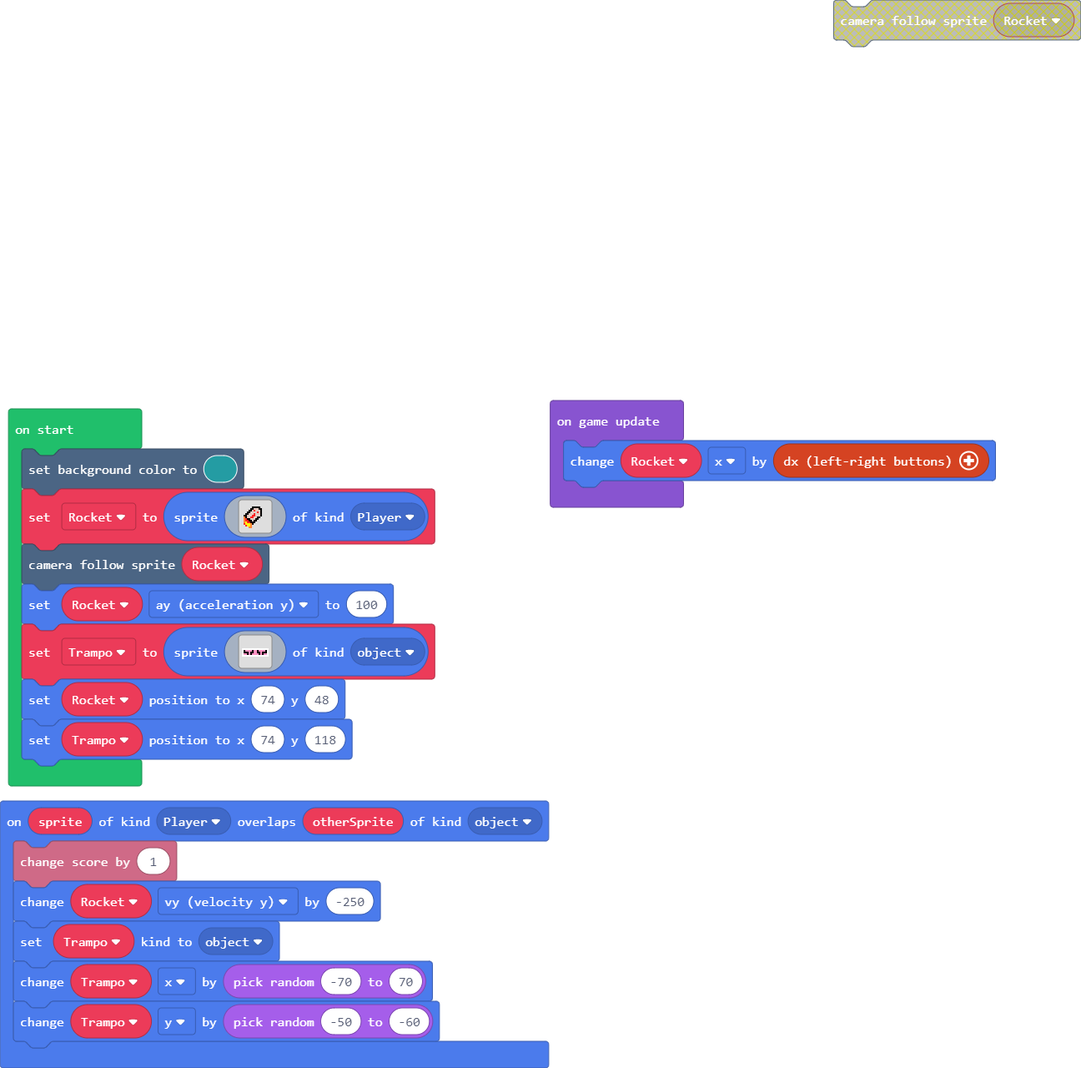
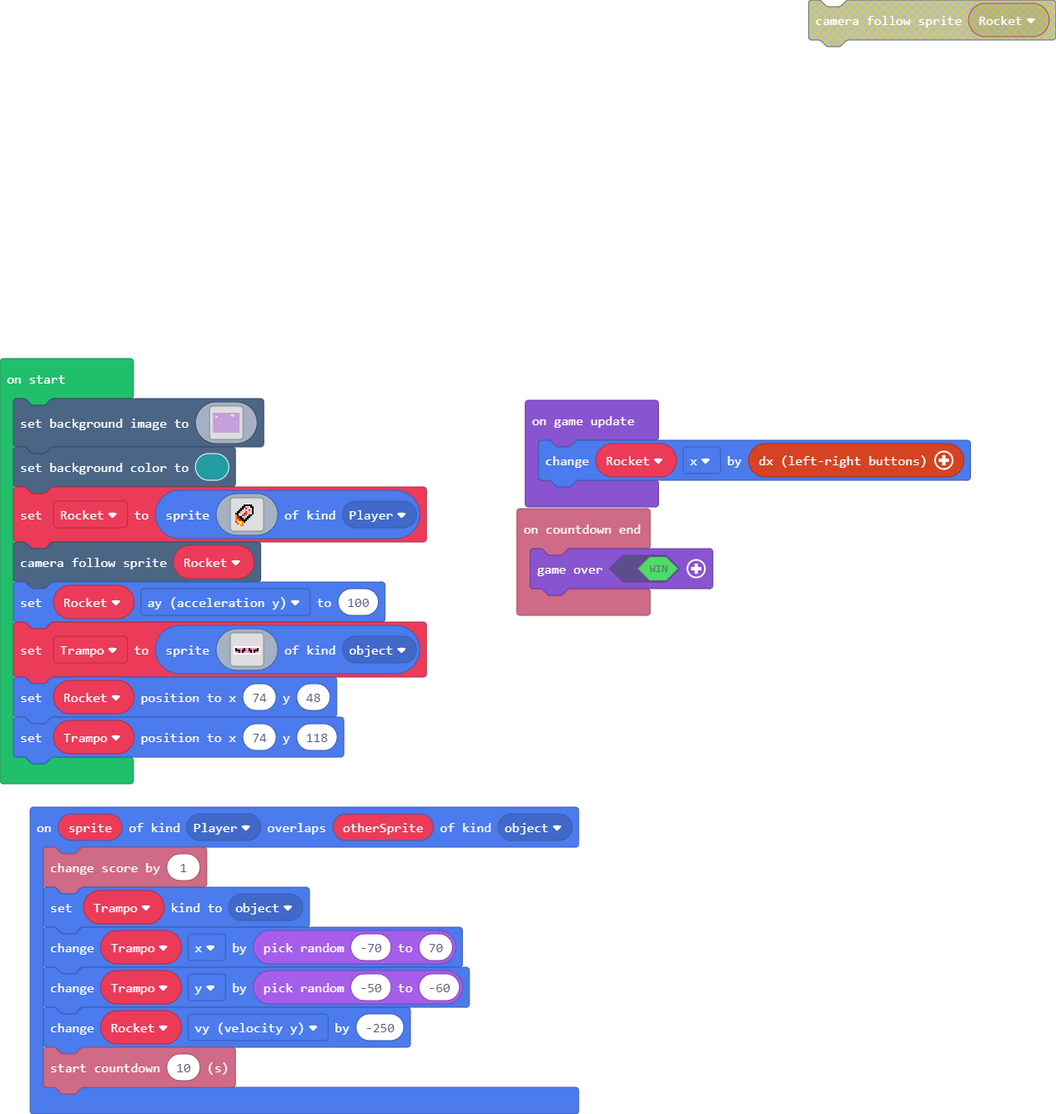
Update pxt.json, main.blocks, main.ts

diff --git a/main.ts b/main.ts
@@ -3,13 +3,139 @@ namespace SpriteKind {
 }
 sprites.onOverlap(SpriteKind.Player, SpriteKind.object, function (sprite, otherSprite) {
     info.changeScoreBy(1)
-    Rocket.vy += -250
     Trampo.setKind(SpriteKind.object)
     Trampo.x += Math.randomRange(-70, 70)
     Trampo.y += Math.randomRange(-50, -60)
+    Rocket.vy += -250
+    info.startCountdown(10)
+})
+info.onCountdownEnd(function () {
+    game.over(true)
 })
 let Trampo: Sprite = null
 let Rocket: Sprite = null
+scene.setBackgroundImage(img`
+a a a a a a a a a a a a a a a a a a a a a a a a a a a a a a a a a a a a a a a a a a a a a a a a a a a a a a a a a a a a a a a a a a a a a a a a a a a a a a a a a a a a a a a a a a a a a a a a a a a a a a a a a a a a a a a a a a a a a a a a a a a a a a a a a a a a a a a a a a a a a a a a a a a a a a a a a a a a a a a a 
+a a a a a a a a a a a a a a a a a a a a a a a a a a a a a a a a a a a a a a a a a a a a a a a a a a a a a a a a a a a a a a a a a a a a a a a a a a a a a a a a a a a a a a a a a a a a a a a a a a a a a a a a a a a a a a a a a a a a a a a a a a a a a a a a a a a a a a a a a a a a a a a a a a a a a a a a a a a a a a a a 
+a a a a a a a a a a a a a a a a a a a a a a a a a a a a a a a a a a a a a a a a a a a a a a a a a a a a a a a a a a a a a a a a a a a a a a a a a a a a a a a a a a a a a a a a a a a a a a a a a a a a a a a a a a a a a a a a a a a a a a a a a a a a a a a a a a a a a a a a a a a a a a a a a a a a a a a a a a a a a a a a 
+a a a a a a a a a a a a a a a a a a a a a a a a a a a a a a a a a a a a a a a a a a a a a a a a a a a a a a a a a a a a a a a a a a a a a a a a a a a a a a a a a a a a a a a a a a a a a a a a a a a a a a a a a a a a a a a a a a a a a a a a a a a a a a a a a a a a a a a a a a a a a a a a a a a a a a a a a a a a a a a a 
+a a a a a a a a a a a a a a a a a a a a a a a a a a a a a a a a a a a a a a a a a a a a a a a a a a a a a a a a a a a a a a a a a a a a a a a a a a a a a a a a a a a a a a a a a a a a a a a a a a a a a a a a a a a a a a a a a a a a a a a a a a a a a a a a a a a a a a a a a a a a a a a a a a a a a a a a a a a a a a a a 
+a a a a a a a a a a a a a a a a a a a a a a a a a a a a a a a a a a a a a a a a a a a a a a a a a a a a a a a a a a a a a a a a a a a a a a a a a a a a a a a a a a a a a a a a a a a a a a a a a a a a a a a a a a a a a a a a a a a a a a a a a a a a a a a a a a a a a a a a a a a a a a a a a a a a a a a a a a a a a a a a 
+a a a a a a a a a a a a a a a a a a a a a a a a a a a a a a a a a a a a a a a a a a a a a a a a a a a a a a a a a a a a a a a a a a a a a a a a a a a a a a a a a a a a a a a a a a a a a a a a a a a a a a a a a a a a a a a a a a a a a a a a a a a a a a a a a a a a a a a a a a a a a a a a a a a a a a a a a a a a a a a a 
+a a a a a a a a a a a a a a a a a a a a a a a a a a a a a a a a a a a a a a a a a a a a a a a a a a a a a a a a a a a a a a a a a a a a a a a a a a a a a a a a a a a a a a a a a a a a a a a a a a a a a a a a a a a a a a a 5 5 5 5 5 5 5 5 5 5 a a a a a a a a a a a a a a a a a a a a a a a a a a a a a a a a a a a a a a a 
+a a a a a a a a a a a a a a a a a a a a a a a a a a a a a a a a a a a a a a a a a a a a a a a a a a a a a a a a a a a a a a a a a a a a a a a a a a a a a a a a a a a a a a a a a a a a a a a a a a a a a a a a a a a a a a a 5 5 5 5 5 5 5 5 5 5 5 5 a a a a a a a a a a a a a a a a a a a a a a a a a a a a a a a a a a a a a 
+a a a a a a a a a a a a a a a a a a a a a a a a a a a a a a a a a a a a a a a a a a a a a a a a a a a a a a a a a a a a a a a a a a a a a a a a a a a a a a a a a a a a a a a a a a a a a a a a a a a a a a a a a a a a a a 5 5 5 5 5 5 5 5 5 5 5 5 5 5 5 a a a a a a a a a a a a a a a a a a a a a a a a a a a a a a a a a a a 
+a a a a a a a a a a a a a a a a a a a a a a a a a a a a a a a a a a a a a a a a a a a a a a a a a a a a a a a a a a a a a a a a a a a a a a a a a a a a a a a a a a a a a a a a a a a a a a a a a a a a a a a a a a a a a a 5 5 5 5 5 5 5 5 5 5 5 5 5 5 5 a a a a a a a a a a a a a a a a a a a a a a a a a a a a a a a a a a a 
+a a a a a a a a a a a a a a a a a a a a a a a a a a a a a a a a a a a a a a a a a a a a a a a a a a a a a a a a a a a a a a a a a a a a a a a a a a a a a a a a a a a a a a a a a a a a a a a a a a a a a a a a a a a 5 5 5 5 5 5 5 5 5 5 5 5 5 5 5 5 5 5 5 5 5 a a a a a a a a a a a a a a a a a a a a a a a a a a a a a a a a 
+a a a a a a a a a a a a a a a a a a a a a a a a a a a a a a a a a a a a a a a a a a a a a a a a a a a a a a a a a a a a a a a a a a a a a a a a a a a a a a a a a a a a a a a a a a a a a a a a a a a a a a a a a a a 5 5 5 5 5 5 5 5 5 5 5 5 5 5 5 5 5 5 5 5 5 a a a a a a a a a a a a a a a a a a a a a a a a a a a a a a a a 
+a a a a a a a a a a a a a a a a a a a a a a a a a a a a a a a a a a a a a a a a a a a a a a a a a a a a a a a a a a a a a a a a a a a a a a a a a a a a a a a a a a a a a a a a a a a a a a a a a a a a a a a a a a a 5 5 5 5 5 5 5 5 5 5 5 5 5 5 5 5 5 5 5 5 5 a a a a a a a a a a a a a a a a a a a a a a a a a a a a a a a a 
+a a a a a a a a a a a a a a a a a a a a a a a a a a a a a a a a a a a a a a a a a a a a a a a a a a a a a a a a a a a a a a a a a a a a a a a a a a a a a a a a a a a a a a a a a a a a a a a a a a a a a a a a a a a 5 5 5 5 5 5 5 5 5 5 5 5 5 5 5 5 5 5 5 5 5 a a a a a a a a a a a a a a a a a a a a a a a a a a a a a a a a 
+a a a a a a a a a a a a a a a a a a a a a a a a a a a a a a a a a a a a a a a a a a a a a a a a a a a a a a a a a a a a a a a a a a a a a a a a a a a a a a a a a a a a a a a a a a a a a a a a a a a a a a a a a a a 5 5 5 5 5 5 5 5 5 5 5 5 5 5 5 5 5 5 5 5 5 a a a a a a a a a a a a a a a a a a a a a a a a a a a a a a a a 
+a a a a a a a a a a a a a a a a a a a a a a a a a a a a a a a a a a a a a a a a a a a a a a a a a a a a a a a a a a a a a a a a a a a a a a a a a a a a a a a a a a a a a a a a a a a a a a a a a a a a a a a a a a a 5 5 5 5 5 5 5 5 5 5 5 5 5 5 5 5 5 5 5 5 5 a a a a a a a a a a a a a a a a a a a a a a a a a a a a a a a a 
+a a a a a a a a a a a a a a a a a a a a a a a a a a a a a a a a a a a a a a a a a a a a a a a a a a a a a a a a a a a a a a a a a a a a a a a a a a a a a a a a a a a a a a a a a a a a a a a a a a a a a a a a a a a 5 5 5 5 5 5 5 5 5 5 5 5 5 5 5 5 5 5 5 5 5 a a a a a a a a a a a a a a a a a a a a a a a a a a a a a a a a 
+a a a a a a a a a a a a a a a a a a a a a a a a a a a a a a a a a a a a a a a a a a a a a a a a a a a a a a a a a a a a a a a a a a a a a a a a a a a a a a a a a a a a a a a a a a a a a a a a a a a a a a a a a a a a 5 5 5 5 5 5 5 5 5 5 5 5 5 5 5 5 5 5 5 5 a a a a a a a a a a a a a a a a a a a a a a a a a a a a a a a a 
+a a a a a a a a a a a a a a a 1 1 1 1 1 1 4 4 1 a a a a a a a a a a a a a a a a a a a a a a a a a a a a a a a a a a a a a a a a a a a a a a a a a a a a a a a a a a a a a a a a a a a a a a a a a a a a a a a a a a a a 5 5 5 5 5 5 5 5 5 5 5 5 5 5 5 5 5 5 5 a a a a a a a a a a a a a a a a a a a a a a a a a a a a a a a a a 
+a a a a a a a a a a a a a a a 1 1 1 1 1 1 1 1 1 1 1 2 1 1 1 a a a a a a a a a a a a a a a a a a a a a a a a a a a a a a a a a a a a a a a a a a a a a a a a a a a a a a a a a a a a a a a a a a a a a a a a a a a a a a a a 5 5 5 5 5 5 5 5 5 5 5 5 5 5 5 5 a a a a a a a a a a a a a a a a a a a a a a a a a a a a a a a a a a 
+a a a a a a a a a a a a a a a 1 1 2 2 1 1 1 1 1 4 1 1 1 1 1 a a a a a a a a a a a a a a a a a a a a a a a a a a a a a a a a a a a a a a a a a a a a a a a a a a a a a a a a a a a a a a a a a a a a a a a a a a a a a a a a 5 5 5 5 5 5 5 5 5 5 5 5 5 5 5 5 a a a a a a a a a a a a a a a a a a a a a a a a a a a a a a a a a a 
+a a a a a a a a a a a a a a a 1 1 1 1 1 1 1 1 1 1 4 1 1 1 1 a a a a a a a a a a a a a a a a a a a a a a a a a a a a a a a a a a a a a a a a a a a a a a a a a a a a a a a a a a a a a a a a a a a a a a a a a a a a a a a a a a a 5 5 5 5 5 5 5 5 5 5 5 5 5 a a a a a a a a a a a a a a a a a a a a a a a a a a a a a a a a a a 
+a a a a a a a a a a a a a a a 1 1 1 1 1 1 1 1 1 1 4 1 1 2 1 a a a a a a a a a a a a a a a a a a a a a a a a a a a a a a a a a a a a a a a a a a a a a a a a a a a a a a a a a a a a a a a a a a a a a a a a a a a a a a a a a a a a a a a a a a a a a a a a a a a a a a a a a a a a a a a a a a a a a a a a a a a a a a a a a a 
+a a a a a a a a a a a a a a a 2 1 1 1 1 1 1 2 1 1 1 1 1 2 1 a a a a a a a a a a a a a a a a a a a a a a a a a a a a a a a a a a a a a a a a a a a a a a a a a a a a a a a a a a a a a a a a a a a a a a a a a a a a a a a a a a a a a a a a a a a a a a a a a a a a a a a a a a a a a a a a a a a a a a a a a a a a a a a a a a 
+a a a a a a a a a a a a a a a 1 1 4 1 1 1 1 1 2 2 1 4 1 2 1 a a a a a a a a a a a a a a a a a a a a a a a a a a a a a a a a a a a a a a a a a a a a a a a a a a a a a a a a a a a a a a a a a a a a a a a a a a a a a a a a a a a a a a a a a a a a a a a a a a a a a a a a a a a a a a a a a a a a a a a a a a a a a a a a a a 
+a a a a a a a a a a a a a a a 1 1 4 1 1 1 1 1 1 1 2 4 1 1 1 a a a a a a a a a a a a a a a a a a a a a a a a a a a a a a a a a a a a a a a a a a a a a a a a a a a a a a a a a a a a a a a a a a a a a a a a a a a a a a a a a a a a a a a a a a a a a a a a a a a a a a a a a a a a a a a a a a a a a a a a a a a a a a a a a a 
+a a a a a a a a a a a a a a a 1 1 1 1 1 1 1 1 1 1 1 1 4 2 a a a a a a a a a a a a a a a a a a a a a a a a a a a a a a a a a a a a a a a a a a a a a a a a a a a a a a a a a a a a a a a a a a a a a a a a a a a a a a a a a a a a a a a a a a a a a a a a a a a a a a a a a a a a a a a a a a a a a a a a a a a a a a a a a a a 
+a a a a a a a a a a a a a a a a 2 1 1 4 4 1 1 1 1 1 2 4 a a a a a a a a a a a a a a a a a a a a a a a a a a a a a a a a a a a a a a a a a a a a a a a a a a a a a a a a a a a a a a a a a a a a a a a a a a a a a a a a a a a a a a a a a a a a a a a a a a a a a a a a a a a a a a a a a a a a a a a a a a a a a a a a a a a a 
+a a a a a a a a a a a a a a a a a 1 1 1 1 1 1 1 2 2 1 1 4 a a a a a a a a a a a a a a a a a a a a a a a a a a a a a a a a a a a a a a a a a a a a a a a a a a a a a a a a a a a a a a a a a a a a a a a a a a a a a a a a a a a a a a a a a a a a a a a a a a a a a a a a a a a a a a a a a a a a a a a a a a a a a a a a a a a 
+a a a a a a a a a a a a a a a a a a a 1 1 4 1 1 1 1 1 1 a a a a a a a a a a a a a a a a a a a a a a a a a a a a a a a a a a a a a a a a a a a a a a a a a a a a a a a a a a a a a a a a a a a a a a a a a a a a a a a a a a a a a a a a a a a a a a a a a a a a a a a a a a a a a a a a a a a a a a a a a a a a a a a a a a a a 
+a a a a a a a a a a a a a a a a a a a a a 1 1 1 1 1 1 1 a a a a a a a a a a a a a a a a a a a a a a a a a a a a a a a a a a a a a a a a a a a a a a a a a a a a a a a a a a a a a a a a a a a a a a a a a a a a a a a a a a a a a a a a a a a a a a a a a a a a a a a a a a a a a a a a a a a a a a a a a a a a a a a a a a a a 
+a a a a a a a a a a a a a a a a a a a a a a a a a a a a a a a a a a a a a a a a a a a a a a a a a a a a a a a a a a a a a a a a a a a a a a a a a a a a a a a a a a a a a a a a a a a a a a a a a a a a a a a a a a a a a a a a a a a a a a a a a a a a a a a a a a a a a a a a a a a a a a a a a a a a a a a a a a a a a a a a 
+a a a a a a a a a a a a a a a a a a a a a a a a a a a a a a a a a a a a a a a a a a a a a a a a a a a a a a a a a a a a a a a a a a a a a a a a a a a a a a a a a a a a a a a a a a a a a a a a a a a a a a a a a a a a a a a a a a a a a a a a a a a a a a a a a a a a a a a a a a a a a a a a a a a a a a a a a a a a a a a a 
+a a a a a a a a a a a a a a a a a a a a a a a a a a a a a a a a a a a a a a a a a a a a a a a a a a a a a a a a a a a a a a a a a a a a a a a a a a a a a a a a a a a a a a a a a a a a a a a a a a a a a a a a a a a a a a a a a a a a a a a a a a a a a a a a a a a a a a a a a a a a a a a a a a a a a a a a a a a a a a a a 
+a a a a a a a a a a a a a a a a a a a a a a a a a a a a a a a a a a a a a a a a a a a a a a a a a a a a a a a a a a a a a a a a a a a a a a a a a a a a a a a a a a a a a a a a a a a a a a a a a a a a a a a a a a a a a a a a a a a a a a a a a a a a a a a a a a a a a a a a a a a a a a a a a a a a a a a a a a a a a a a a 
+a a a a a a a a a a a a a a a a a a a a a a a a a a a a a a a a a a a a a a a a a a a a a a a a a a a a a a a a a a a a a a a a a a a a a a a a a a a a a a a a a a a a a a a a a a a a a a a a a a a a a a a a a a a a a a a a a a a a a a a a a a a a a a a a a a a a a a a a a a a a a a a a a a a a a a a a a a a a a a a a 
+a a a a a a a a a a a a a a a a a a a a a a a a a a a a a a a a a a a a a a a a a a a a a a a a a a a a a a a a a a a a a a a a a a a a a a a a a a a a a a a a a a a a a a a a a a a a a a a a a a a a a a a a a a a a a a a a a a a a a a a a a a a a a a a a a a a a a a a a a a a a a a a a a a a a a a a a a a a a a a a a 
+a a a a a a a a a a a a a a a a a a a a a a a a a a a a a a a a a a a a a a a a a a a a a a a a a a a a a a a a a a a a a a a a a a a a a a a a a a a a a a a a a a a a a a a a a a a a a a a a a a a a a a a a a a a a a a a a a a a a a a a a a a a a a a a a a a a a a a a a a a a a a a a a a a a a a a a a a a a a a a a a 
+a a a a a a a a a a a a a a a a a a a a a a a a a a a a a a a a a a a a a a a a a a a a a a a a a a a a a a a a a a a a a a a a a a a a a a a a a a a a a a a a a a a a a a a a a a a a a a a a a a a a a a a a a a a a a a a a a a a a a a a a a a a a a a a a a a a a a a a a a a a a a a a a a a a a a a a a a a a a a a a a 
+a a a a a a a a a a a a a a a a a a a a a a a a a a a a a a a a a a a a a a a a a a a a a a a a a a a a a a a a a a a a a a a a a a a a a a a a a a a a a a a a a a a a a a a a a a a a a a a a a a a a a a a a a a a a a a a a a a a a a a a a a a a a a a a a a a a a a a a a a a a a a a a a a a a a a a a a a a a a a a a a 
+a a a a a a a a a a a a a a a a a a a a a a a a a a a a a a a a a a a a a a a a a a a a a a a a a a a a a a a a a a a a a a a a a a a a a a a a a a a a a a a a a a a a a a a a a a a a a a a a a a a a a a a a a a a a a a a a a a a a a a a a a a a a a a a a a a a a a a a a a a a a a a a a a a a a a a a a a a a a a a a a 
+a a a a a a a a a a a a a a a a a a a a a a a a a a a a a a a a a a a a a a a a a a a a a a a a a a a a a a a a a a a a a a a a a a a a a a a a a a a a a a a a a a a a a a a a a a a a a a a a a a a a a a a a a a a a a a a a a a a a a a a a a a a a a a a a a a a a a a a a a a a a a a a a a a a a a a a a a a a a a a a a 
+a a a a a a a a a a a a a a a a a a a a a a a a a a a a a a a a a a a a a a a a a a a a a a a a a a a a a a a a a a a a a a a a a a a a a a a a a a a a a a a a a a a a a a a a a a a a a a a a a a a a a a a a a a a a a a a a a a a a a a a a a a a a a a a a a a a a a a a a a a a a a a a a a a a a a a a a a a a a a a a a 
+a a a a a a a a a a a a a a a a a a a a a a a a a a a a a a a a a a a a a a a a a a a a a a a a a a a a a a a a a a a a a a a a a a a a a a a a a a a a a a a a a a a a a a a a a a a a a a a a a a a a a a a a a a a a a a a a a a a a a a a a a a a a a a a a a a a a a a a a a a a a a a a a a a a a a a a a a a a a a a a a 
+a a a a a a a a a a a a a a a a a a a a a a a a a a a a a a a a a a a a a a a a a a a a a a a a a a a a a a a a a a a a a a a a a a a a a a a a a a a a a a a a a a a a a a a a a a a a a a a a a a a a a a a a a a a a a a a a a a a a a a a a a a a a a a a a a a a a a a a a a a a a a a a a a a a a a a a a a a a a a a a a 
+a a a a a a a a a a a a a a a a a a a a a a a a a a a a a a a a a a a a a a a a a a a a a a a a a a a a a a a a a a a a a a a a a a a a a a a a a a a a a a a a a a a a a a a a a a a a a a a a a a a a a a a a a a a a a a a a a a a a a a a a a a a a a a a a a a a a a a a a a a a a a a a a a a a a a a a a a a a a a a a a 
+a a a a a a a a a a a a a a a a a a a a a a a a a a a a a a a a a a a a a a a a a a a a a a a a a a a a a a a a a a 1 a a a a a a a a a a a a a a a a a a a a a a a a a a a a a a a a a a a a a a a a a a a a a a a a a a a a a a a a a a a a a a a a a a a a a a a a a a a a a a a a a a a a a a a a a a a a a a a a a a a a a 
+a a a a a a a a a a a a a a a a a a a a a a a a a a a a a a a a a a a a a a a a a a a a a a a a a a a a a a a a a a 1 a a a a a a a a a a a a a a a a a a a a a a a a a a a a a a a a a a a a a a a a a a a a a a a a a a a a a a a a a a a a a a a a a a a a a a a a a a a a a a a a a a a a a a a a a a a a a a a a a a a a a 
+a a a a a a a a a a a a a a a a a a a a a a a a a a a a a a a a a a a a a a a a a a a a a a a a a a a a a a a a a a a a a a a a a a a a a a a a a a a a a a a a a a a a a a a a a a a a a a a a a a a a a a a a a a a a a a a a a a a a a a a a a a a a a a a a a a a a a a a a a a a a a a a a a a a a a a a a a a a a a a a a 
+a a a a a a a a a a a a a a a a a a a a a a a a a a a a a a a a a a a a a a a a a a a a a a a a a a a a a a a a a a a a a a a a a a a a a a a a a a a a a a a a a a a a a a a a a a a a a a a a a a a a a a a a a a a a a a a a a a a a a a 1 a a a a a a a a a a a a a a a a a a a a a a a a a a a a a a a a a a a a a a a a a 
+a a a a a a a a a a a a a a a a a a a a a a a a a a a a a a a a a a a a a a a a a a a a a a a a a a a a a a a a a a a a a a a a a a a a a a a a a a a a a a a a a a a a a a a a a a a a a a a a a a a a a a 1 1 a a a a a a a a a a a a a a a a a a a a a 1 a a a a a a a a a a a a a a a a a a a a a a a a a a a a a a a a a a 
+a a a a a a a a a a a a a a a a a a a a a a a a a a a a a a a a a a a a a a a a a a a a a a a a a a a a a a a a a a a a a a a a a a a a a a a a a a a a a a a a a a a a a a a a a a a a a a a a a a 1 a a a a a a a a a a a a a a a a a a a a a a a a a a 1 a a a a a a a a a a a a a a a a a a a a a a a a a a a a a a a a a a 
+a a a a a a a a a a a a a a a a a a a a a a a a a a a a a a a a a a a a a a a a a a a a a a a a a a a a a a a a a a a a a a a a a a a a a a a a a 1 1 1 1 a a a a a a a a a a a a a a a a a a a a a a a a a a a a a a a a a a a a a a a a a a a a a a a a a 1 a a a a a a a a a a a a a a a a a a a a a a a a a a a a a a a a a 
+a a a a a a a a a a a a a a a a a a a a a a a a a a a a a a a a a a a a a a a a a a a a a a a a a a a a a a a a a a a a a a a a a a a a a a a a a a a a a a a a a a a a a a a a a a a a a a a a a a a a a a a a a a a a a a a a a a a a a a a a a a a a a a 1 a a a a a a a a a a a a a a a a a a a a a a a a a a a a a a a a a 
+a a a a a a a a a a a a a a a a a a a a a 1 a a a a a a a a a a a a a a a a a a a a a a a a a a a a a a a a a a a a a a a a a a a a a a a a a a a a a a a a a a a a a a a a a a a a a a a a a a a a a a a a a 1 1 a a a a a a a a a a a a a a a a a a a a a 1 a a a a a a a a a a a a a a a a a a a a a a a a a a a a a a a a a 
+a a a a a a a a a a a a a a a a a a a a a a a a a a a a a a a a a a a a a a a a a a a a a a a a a a a a a a a a a a a a a a a a a a a a a a a a a a a a a a a a a a a a a a a a a a a a a a a a a a a a a a 1 a a a a a a a a a a a a a a a a a a a a a a a a 1 a a a a a a a a a a a a a a a a a a a a a a a a a a a a a a a a 
+a a a a a a a a a a a a a a a a a a a a a a a a a a a a a a a a a a a a a a a a a a a a a a a a a a a a a 1 1 a a a a a a a a a a a a a a a a a a a a a a a a a a a a a a a a a a a a a a a a a a a a a a a a a a a a a a a a a a a a a a a a a a a a a a a a 1 a a a a a a a a a a a a a a a a a a a a a a a a a a a a a a a a 
+a a a a a a a a a a a a a a a a a a a a a a a a a a a a a a a a a a a a a a a a a a a a a a a a a a a a 1 a a a a a a a a a a a a a a a a a a a a a a a a a a a a a a a a a a a a a a a a a a a a a a a a a a a a a a a a a a a a a a a a a a a a a a a a a a a 1 a a a a a a a a a a a a a a a a a a a a a a a a a a a a a a a 
+a a a a a a a a a a a a a a a a a a a a a a a a a a a a a a a a a a a a a a a a a a a a a a a a a a a a a a a a a a a a a a a a a a a a a a a a a a a a a a a a a a a a a a a a 1 a a a a a a a a a a a a a a a a a a a a a a a a a a a a a a a a a a a a a a a a a a a a a a a a a a a a a a a a a a a a a a a a a a a a a a a 
+a a a a a a a a a a 1 a a a a a a a a a a a a a 1 1 a a a a a a a a a a a a a a a a a a a a a a a a a a a a a a a a a a a a a a a a a a a a a a a a a a a a a a a a a a a a a a a a a a a a a a a a a a a a a a a a a a a a a a a a a a a a a a a a a a a a a a a a a a a a a a a a a a a a a a a a a a a a a a a a a a a a a a 
+a a a a a a a a a a 1 a a a a a a a a a a a a a a a 1 1 1 1 a a a a a a a a a a a a a a a a a a a a a a a a a a a a a a a a a a a a a a a a a a a a a a a a a a a a a a a a a a a a a a a a a a a a a a a a a a a a a a a a a a a a a a a a a a a a a a a a a a a a a a a a a a a a a a a a a a a a a a a a a a a a a a a a a a 
+a a a a a a a a a a a a a a a a a a a a a a a a a a a a a a 1 1 1 a a a a a a a a a a a a a a a a a a a a a a a a a a a a a a a a a a a a a a a a a a a a a a a a a a a a a a a a a a a a a a a a a a a a a a a a a a a a a a a a a a a a a a a a a a 1 a a a a a a a a a a a a a a a a a a a a a a a a a a a a a a a a a a a a 
+a a a a a a a a a a a a a a a a a a a a a a a a a a a a a a a a a 1 1 1 1 a a a a a a a a a a a a a a a a a a a a a a a a a a a a a a a a a a a a a a a a a a a a a a a a a a a a a a a a a a a a a a a a a a a a a a a a a a a a a a a a a a a a a a a a a a a a a a a a a a a a a a a a a a a a a a a a a a a a a a a a a a a 
+a a a a a a a a a a a a a a a a a a a a a a a a a a a a a a a a a a a a a 1 1 1 1 a a a a a a a a a a a a a a a a a a a a a a a a a a a a a a a a a a a a a a a a a a a a a a a a a a a a a a a a a a a a a a a a a a a a a a a a a a a a a a a a a a a a a a a a a a a a a a a a a a a a a a a a a a a a a a a a a a a a a a a 
+a a a a a a a a a a a a a a a a a a a a a a a a a a a a a a a a a a a a a a a a a 1 1 1 a a a a a a a a a a a a a a a a a a a a a a a a a a a a a a a a a a a a a a a a a a a a a a a a a a a a a a a a a a a a a a a a a a a a a a a a a a a a a a a a a a a a a a a a a a a a a a a a a a a a a a a a a a a a a a a a a a a a 
+a a a a a a a a a a a a a a a a a a a a a a a a a a a a a a a a a a a a a a a a a a a a 1 1 1 1 a a a a a a a a a a a a a a a a a a a a a a a 1 a a a a a a a a a a a a a a a a a a a a a a a a a a a a a a a a a a a a a a a a a a a a a a a a a a a a a a a a a a a a a a a a a a a a a a a a a a a a a a a a a a a a a a a a 
+a a a a a a a a a a a a a a a a a a a a a a a a a a a a a a a a a a a a a a a a a a a a a a a a 1 1 1 a a a a a a a a a a a a a a a a a a a a a a a a a a a a a a a a a a a a a a a a a a a a a a a a a a a a a a a a a a a a a a a a a a a a a a a a a a a a a a a a a a a a a a a a a a a a a a a a a a a a a a a a a a a a a 
+a a a a a a a a a a a a a a a a a a a a a a a a a a a a a a a a a a a a a a 1 a a a a a a a a a a a a 1 1 1 a a a a a a a a a a a a a a a a a a a a a a a a a a a a a a a a a a a a a a a a a a a a a a a a a a a a a a a a a a a a a a a a a a a a a a a a a a a a a a a a a a a a a a a a a a a a a a a a a a a a a a a a a a 
+a a a a a a a a a a a a a a a a a a a a a a a a a a a a a a a a a a a a 1 1 a a a a a a a a a a a a a a a a 1 1 1 1 a a a a a a a a a a a a a a a a a a a a a a a a a a a a a a a a a a a a a a a a a a a a a a a a a a a a a a a a a a a a a a a a a a a a a a a a a a a a a a a a a a a a a a a a a a a a a a a a a a a a a a 
+a a a a a a a a a a a a a a a a a a a a a a a a a a a a a a a a a a a 1 a a a a a a a a a a a a a a a a a a a a a a 1 1 a a a a a a a a a a a a a a a a a a a a a a a a a a a a a a a a a a a a a a a a a a a a a a a a a a a a a a a a a a a a a a a a a a a a a a a a a 1 a a a a a a a a a a a a a a a a a a a a a a a a a a 
+a a a a a a a a a a a a a a a a a a a a a a a a a a a a a a a a a a a a a a a a a a a a a a a a a a a a a a a a a a a a a a a a a a a a a a a a a a a a a a a a a a a a a a a a a a a a a a a a a a a a a a a a a a a a a a a a a a a a a a a a a a a a a a a a a a a a 1 a a a a a a a a a a a a a a a a a a a a a a a a a a a 
+a a a a a a a a a a a a a a a a a a a a a a a a a a a a a a a a a a a a a a a a a a a a a a a a a a a a a a a a a a a a a a a a a a a a a a a a a a a a a a a a a a a a a a a a a a a a a a a a a a a a a a a a a a a a a a a a a a a a a a a a a a a a a a a a a a a 1 a a a a a a a a a a a a a a a a a a a a a a a a a a a a 
+a a a a a a a a a a a a a a a a a a a a a a a a a a a a a a a a a a a a a a a a a a a a a a a a a a a a a a a a a a a a a a a a a a a a a a a a a a a a a a a a a a a a a a a a a a a a a a a a a a a a a a a a a a a a a a a a a a a a a a a a a a a a a a a a a a 1 a a a a a a a a a a a a a a a a a a a a a a a a a a a a a 
+a a a a a a a a a a a a a a a a a a a a a a a a a a a a a a a a a a a a a a a a a a a a a a a a a a a a a a a a a 1 a a a a a a a a a a a a a a a a a a a a a a a a a a a a a a a a a a a a a a a a a a a a a a a a a a a a a a a a a a a a a a a a a a a a a a a a a a a a a a a a a a a a a a a a a a a a a a a a a a a a a a 
+a a a a a a a a a a a a a a a a a a a a a a a a a a a a a a a a a a a a a a a a a a a a a a a a a a a a a a a a a a a a a a a a a a a a a a a a a a a a a a a a a a a a a a a a a a a a a a a a a a a a a a a a a a a a a a a a a a a a a a a a a a a a a a a a a a a a a a a a a a a a a a a a a a a a a a a a a a a a a a a a 
+a a a a a a a a a a a a a a a a a a a a a a a a a a a a a a a a 1 a a a a a a a a a a a a a a a a a a a a a a a a a a a a a a a a a a a a a a a a a a a a a a a a a a a a a a a a a a a a a a a a a a a a a a a a a a a a a a a a 1 1 1 1 1 1 1 a a a a a a a a a a a a a a a a a a a a a a a a a a a a a a a a a a a a a a a a 
+a a a a a a a a a a a a a a a a a a a a a a a a a a a a a a a a 1 a a a a a a a a a a a a a a a a a a a a a a a a a a a a a a a a a a a a a a a a a a a a a a a a a a a a a a a a a a a a a a a a a a a a a a a a a a a a a a a a a a a a a a a a a a a a a a a a a a a a a a a a a a a a a a a a a a a a a a a a a a a a a a a 
+a a a a a a a a a a a a a a a a a a a a a a a a a a a a a a a a 1 a a a a a a a a a a a a a a a a a a a a a a a a a a a a a a a a a a a a a a a a a a a a a a a a a a a a a a a a a a a a a a a a a a a a a a a a a a a a a a a a a a a a a a a a a a a a a a a a a a a a a a a a a a a a a a a a a a a a a a a a a a a a a a a 
+a a a a a a a a a a a a a a a a a a a a a a a a a a a a a a a a a a a a a a a a a a a a a a a a a a a a a a a a a a a a a a a a a a a a a a a a a a a a a a a a a a a a a a a a a a a a a a a a a a a a a a a a a a a a a a a a a a a a a a a a a a a a a a a a a a a a a a a a a a a a a a a a a a a a a a a a a a a a a a a a 
+a a a a a a a a a a a a a a a a a a a a a a a a a a a a a a a a a a a a a a a a a a a a a a a a a a a a a a a a a a a a a a a a a a a a a a a a a a a a a a a a a a a a a a a a a a a a a a a a a a a a a a a a a a a a a a a a a a a a a a a a a a a a a a a a a a a a a a a a a a a a a a a a a a a a a a a a a a a a a a a a 
+a a a a a a a a a a a a a a a a a a a a a a a a a a a a a a a a a a a a a a a a a a a a a a a a a a a a a a a a a a a a a a a a a a a a a a a a a a a a a a a a a a a a a a a a a a a a a a a a a a a a a a a a a a a a a a a a a a a a a a a a a a a a a a a a a a a a a a a a a a a a a a a a a a a a a a a a a a a a a a a a 
+a a a a a a a a a a a a a a a a a a a a a a a a a a a a a a a a a a a a a a a a 1 a a a a a a a a a a a a a a a a a a a a a a a a a a a a a a a a a a a a a a a a a a a a a a a a a a a a a a a a a a a a a a a a a a a a a a a a a a a a a a a a a a a a a a a a a a a a a a a a a a a a a a a a a a a a a a a a a a a a a a a 
+a a a a a a a a a a a a a 1 a a a a a a a a a a a a a a a a a a a a a a a a a a a 1 a a a a a a a a a a a a a a a a a a a a a a a a a a a a a a a a a a a a a a a a a a a a a a a a a a a a a a a a a a a a a a a a a a a a a a a a a a a a a a a a a a a a a a a a a a a a a a a a a a 1 1 a a a a a a a a a a a a a a a a a a 
+a a a a a a a a a a a a a a 1 a a a a a a a a a 1 a a a a a a a a a a a a a a a a a 1 a a a a a a a a a a a a a a a a a a a a a a a a a a a a a a a a a a a a a a a a a a a a a a a a a a a a a a a a a a a a a a a a a a a a a a a a a a a a a a a a a a a a a a a a a a a a a a a a a a a 1 1 a a a a a a a a a a a a a a a a 
+a a a a a a a a a a a a a a a 1 a a a a a a a a a a a a a a a a a a a a a a a a a a a 1 a a a a a a a a a a a a a a a a a a a a a a a a a a a a a a a a a a a a a a a a a a a a a a a a a a a a a a a a a a a a a a a a a a a a a a a a a a a a a a a a a a a a a a a a a a a a a a a a a a a a 1 1 a a a a a a a a a a a a a a 
+a a a a a a a a a a a a a a a a 1 1 a a a a a a a a a a a a a a a a a a a a a a a a a a a a a a a a a a a a a a a a a a a a a a a a a a a a a a a a a a a a a a a a a a a a a a a a a a a a a a a a a a a a a a a a a a a a a a a a a a a a a a a a a a a 1 a a a a a a a a a a a a a a a a a a a a 1 a a a a a a a a a a a a a 
+a a a a a a a a a a a a a a a a a a 1 a a a a a a a a a a a a a a a a a a a a a a a a a a a a a a a a a a a a a a a a a a a a a a a a a a a a a a a a a a a a a a a a a a a a a a a a a a a a a a a a a a a a a a a a a a a a a a a a a a a a a a a a 1 1 a a a a a a a a a a a a a a a a a a a a a a a a a a a a a a a a a a a 
+a a a a a a a a a a a a a a a a a a a 1 a a a a a a a a a a a a a a a a a a a a a a a a a a a a a a a a a a a a a a a a a a a a a a a a a a a a a a a a a a a a a a a a a a a a a a a a a a a a a a a a a a a a a a a a a a a a a a a a a a a a a a a a a a a a a a a a a a a a a a a a a a a a a a a a a a a a a a a a a a a a 
+a a a a a a a a a a a a a a a a a a a a 1 a a a a a a a a a a a a a a a a a a a a a a a a a a a a a a a a a a a a a a a a a a a a a a a a a a a a a a a a a a a a a a a a a a a a a a a a a a a a a a a a a a a a a a a a a a a a a a a a a a a a a a a a a a a a a a a a a a a a a a a a a a a a a a a a a a a a a a a a a a a 
+a a a a a a a a a a a a a a a a a a a a a a a a a a a a a a a a a a a a a a a a a a a a a a a a a a a a a a a a a a a a a a a a a a a a a a a a a a a a a a a a a a a a a a a a a a a a a a a a a a a a a a a a a a a a a a a a a a a a a a a a a a a a a a a a a a a a a a a a a a a a a a a a a a a a a a a a a a a a a a a a 
+a a a a a a a a a a a a a a a a a a a a a a a a a a a a a a a a a a a a a a a a a a a a a a a a a a a a a a a a a a a a a a a a a a a a a a a a a a a a a a a a a a a a a a a a a a a a a a a a a a a a a a a a a a a a a a a a a a a a a a a a a a a a a a a a a a a a a a a a a a a a a a a a a a a a a a a a a a a a a a a a 
+a a a a a a a a a a a a a a a a a a a a a a a a a a a a a a a a a a a a a a a a a a a a a a a a a a a a a a a 1 a a a a a a a a a a a a a a a a a a a a a a a a a a a a a a a a a a a a a a a a a a a a a a a a a a a a a a a a a a a a a a a a a a a a a a a a a a a a a a a a a a a a a a a a a a a a a a a a a a a a a a a a 
+a a a a a a a a a a a a a a a a a a a a a a a a a a a a a a a a a a a a a a a a a a a a a a a a a a a a a a a a 1 1 a a a a a a a a a a a a a a a a a a a a a a a a 1 1 1 1 1 a a a a a a a a a a a a a a a a a a a a a a a a a a a a a a a a a a a a a a a a a a a a a a a a a a a a a a a a a a a a a a a a a a a a a a a a a 
+a a a a a a a a a a a a a a a a a a a a a a a a a a a a a a a a a a a a a a a a a a a a a a a a a a a a a a a a a a 1 a a a a a a a a a a a a a a a a a a a a a a a a a a a a a a a a a a a a a a a a a a a 1 1 1 a a a a a a a a a a a a a a a a a a a a a a a a a a a a a a a a a a a a a a a a a a a a a a a a a a a a a a a 
+a a a a a a a a a a a a a a a a a a a a a a a a a a a a a a a a a a a a a a a a a a a a a a a a a a a a a a a a a a a a a a a a a a a a a a a a a a a a a a a a a a a a a a a a a a a a a a a a a a a a a a a a a a a a a a a a a a a a a a a a a a a a a a a a a a a a a a a a a a a a a a a a a a a a a a a a a a a a a a a a 
+a a a a a a a a a a a a a a a a a a a a a a a a a a a a a a a a a a a a a a a a a a a a a a a a a a a a a a a a a a a a a a a a a a a a a a a a a a a a a a a a a a a a a a a a a a a a a a a a a a a a a a a a a a a a a a a a a a a a a a a a a a a a a a a a a a a a a a a a a a a a a a a a a a a a a a a a a a a a a a a a 
+a a a a a a a a a a a a a a a a a a a a a a a a a a a a a a a a a a a a a a a a a a a a a a a a a a a a a a a a a a a a a a a a a a a a a a a a a a a a a a a a a a a a a a a a a a a a a a a a a a a a a a a a a a a a a a a a a a a a a a a a a a a a a a a a a a a a a a a a a a a a a a a a a a a a a a a a a a a 1 a a a a 
+a a a a a a a a a a a a a a a a a a a a a a a a a a a a a a a a a a a a a a a a a a a a a a a a a a a a a a a a a a a a a a a a a a a a a a a a a a a a a a a a a a a a a a a a a a a a a a a a a a a a a a a a a a a a a a a a a a a a a a a a a a a a a a a a a a a a a a a a a a a a a a a a a a a a a a a a a a a 1 a a a a 
+a a a a a a a a a a a a a a a a a a a a a a a a a a a a a a a a a a a a a a a a a a a a a a a a a a a a a a a a a a a a a a a a a a a a a a a a a a a a a a a a a a a a a a a a a a a a a a a a a a a a a a a a a a a a a a a a a a a a a a a a a a a a a a a a a a a a a a a a a a a a a a a a a a a a a a a a a a a 1 a a a a 
+a a a a a a a a a a a a a a a a a a a a a a a a a a a a a a a a a a a a a a a a a a a a a a a a a a a a a a a a a a a a a a a a a a a a a a a a a a a a a a a a a a a a a a a a a a a a a a a a a a a a a a a a a a a a a a a a a a a a a a a a a a a a a a a a a a a a a a a a a a a a a a a a a a a a a a a a a a a 1 a a a a 
+a a a a a a a a a a a a a a a a a a a a a a a a a a a a a a a a a a a a a a a a a a a a a a a a a a a a a a a a a a a a a a a a a a a a a a a a a a a a a a a a a a a a a a a a a a a a a a a a a a a a a a a a a a a a a a a a a a a a a a a a a a a a a a a a a a a a a a a a a a a a a a a a a a a a a a a a a a a a a a a a 
+a a a a a a a a a a a a a a a a a a a a a a a a a a a a a a a a a a a a a a a a a a a a a a a a a a a a a a a a a a a a a a a a a a a a a a a a a a a a a a a a a a a a a a a a a a a a a a a a a a a a a a a a a a a a a a a a a a a a a a a a a a a a a a a a a a a a a a a a a a a a a a a a a a a a a a a a a a a a a a a a 
+a a a a a a a a a a a a a a a a a a a a a a a a a a a a a a a a a a a a a a a a a a a a a a a a a a a a a a a a a a a a a a a a a a a a a a a a a a a a a a a a a a a a a a a a a a a a a a a a a a a a a a a a a a a a a a a a a a a a a a a a a a a a a a a a a a a a a a a a a a a a a a a a a a a a a a a a a a a a a a a a 
+a a a a a a a a a a a a a a a a a a a a a a a a a a a a a a a a a a a a a a a a a a a a a a a a a a a a a a a a a a a a a a a a a a a a a a a a a a a a a a a a a a a a a a a a a a a a a a a a a a a a a a a a a a a a a a a a a a a a a a a a a a a a a a a a a a a a a a a a a a a a a a a a a a a a a a a a a a a a a a a a 
+a a a a a a a a a a a a a a a a a a a a a a a a a a a a a a a a a a a a a a a a a a a a a a a a a a a a a a a a a a a a a a a a a a a a a a a a a a a a a a a a a a a a a a a a a a a a a a a a a a a a a a a a a a a a a a a a a a a a a a a a a a a a a a a a a a a a a a a a a a a a a a a a a a a a a a a a a a a a a a a a 
+a a a a a a a a a a a a a a a a a a a a a a a a a a a a a a a a a a a a a a a a a a a a a a a a a a a a a a a a a a a a a a a a a a a a a a a a a a a a a a a a a a a a a a a a a a a a a a a a a a a a a a a a a a a a a a a a a a a a a a a a a a a a a a a a a a a a a a a a a a a a a a a a 1 1 a a a a a a a a a a a a a a 
+a a a a a a a a a a a a a a a a a a a a a a a a a a a a a a a a a a a a 1 1 1 1 a a a a a a a a a a a a a a a a a a a a a a a a a a a 1 1 1 1 1 1 1 1 1 1 1 a a a a a a a a a a a a a a a a a a a a a a a a a a a a a a a a a a a a a a a a a a a a a a a a a a a a a a a a a a a a a a a 1 1 1 a a a a a a a a a a a a a a a a 
+a a a a a a a a a a a a a a a a a a a a a a a a a a a a a a a a a a a a a a a a a a a a a a a a a a a a a a a a a a a a a a a a a a a a a a a a a a a a a a a a a a a a a a a a a a a a a a a a a a a a a a a a a a a a a a a a a a a a a a a a a a a a a a a a a a a a a a a a a a 1 1 1 a a a a a a a a a a a a a a a a a a a 
+a a a a a a a a a a a a a a a a a a a a a a a a a a a a a a a a a a a a a a a a a a a a a a a a a a a a a a a a a a a a a a a a a a a a a a a a a a a a a a a a a a a a a a a a a a a a a a a a a a a a a a a a a a a a a a a a a a a a a a a a a a a a a a a a a a a a a a a a 1 1 a a a a a a a a a a a a a a a a a a a a a a 
+a a a a a a a a a a a a a a a a a a a a a a a a a a a a a a a a a a a a a a a a a a a a a a a a a a a a a a a a a a a a a a a a a a a a a a a a a a a a a a a a a a a a a a a a a a a a a a a a a a a a a a a a a a a a a a a a a a a a a a a a a a a a a a a a a a a a a a a a a a a a a a a a a a a a a a a a a a a a a a a a 
+a a a a a a a a a a a a a a a a a a a a a a a a a a a a a a a a a a a a a a a a a a a a a a a a a a a a a a a a a a a a a a a a a a a a a a a a a a a a a a a a a a a a a a a a a a a a a a a a a a a a a a a a a a a a a a a a a a a a a a a a a a a a a a a a a a a a a a a a a a a a a a a a a a a a a a a a a a a a a a a a 
+a a a a a a a a a a a a a a a a a a a a a a a a a a a a a a a a a a a a a a a a a a a a a a a a a a a a a a a a a a a a a a a a a a a a a a a a a a a a a a a a a a a a a a a a a a a a a a a a a a a a a a a a a a a a a a a a a a a a a a a a a a a a a a a a a a a a a a a a a a a a a a a a a a a a a a a a a a a a a a a a 
+a a a a a a a a a a a a a a a a a a a a a a a a a a a a a a a a a a a a a a a a a a a a a a a a a a a a a a a a a a a a a a a a a a a a a a a a a a a a a a a a a a a a a a a a a a a a a a a a a a a a a a a a a a a a a a a a a a a a a a a a a a a a a a a a a a a a a a a a a a a a a a a a a a a a a a a a a a a a a a a a 
+a a a a a a a a a a a a a a a a a a a a a a a a a a a a a a a a a a a a a a a a a a a a a a a a a a a a a a a a a a a a a a a a a a a a a a a a a a a a a a a a a a a a a a a a a a a a a a a a a a a a a a a a a a a a a a a a a a a a a a a a a a a a a a a a a a a a a a a a a a a a a a a a a a a a a a a a a a a a a a a a 
+a a a a a a a a a a a a a a a a a a a a a a a a a a a a a a a a a a a a a a a a a a a a a a a a a a a a a a a a a a a a a a a a a a a a a a a a a a a a a a a a a a a a a a a a a a a a a a a a a a a a a a a a a a a a a a a a a a a a a a a a a a a a a a a a a a a a a a a a a a a a a a a a a a a a a a a a a a a a a a a a 
+a a a a a a a a a a a a a a a a a a a a a a a a a a a a a a a a a a a a a a a a a a a a a a a a a a a a a a a a a a a a a a a a a a a a a a a a a a a a a a a a a a a a a a a a a a a a a a a a a a a a a a a a a a a a a a a a a a a a a a a a a a a a a a a a a a a a a a a a a a a a a a a a a a a a a a a a a a a a a a a a 
+a a a a a a a a a a a a a a a a a a a a a a a a a a a a a a a a a a a a a a a a a a a a a a a a a a a a a a a a a a a a a a a a a a a a a a a a a a a a a a a a a a a a a a a a a a a a a a a a a a a a a a a a a a a a a a a a a a a a a a a a a a a a a a a a a a a a a a a a a a a a a a a a a a a a a a a a a a a a a a a a 
+a a a a a a a a a a a a a a a a a a a a a a a a a a a a a a a a a a a a a a a a a a a a a a a a a a a a a a a a a a a a a a a a a a a a a a a a a a a a a a a a a a a a a a a a a a a a a a a a a a a a a a a a a a a a a a a a a a a a a a a a a a a a a a a a a a a a a a a a a a a a a a a a a a a a a a a a a a a a a a a a 
+a a a a a a a a a a a a a a a a a a a a a a a a a a a a a a a a a a a a a a a a a a a a a a a a a a a a a a a a a a a a a a a a a a a a a a a a a a a a a a a a a a a a a a a a a a a a a a a a a a a a a a a a a a a a a a a a a a a a a a a a a a a a a a a a a a a a a a a a a a a a a a a a a a a a a a a a a a a a a a a a 
+`)
 scene.setBackgroundColor(6)
 Rocket = sprites.create(img`
 . . . . . . . . . . . . . . . . 
